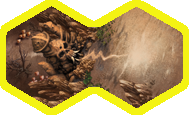
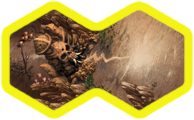
Smoother gate outline

diff --git a/sections/map_elements.tex b/sections/map_elements.tex
@@ -188,7 +188,7 @@ Subterranean Map Tiles have their unique backside and will be place during setup
       \node at (0, 2.2) {\footnotesize{\textbf{\textit{\textcolor{darkcandyapplered}{Stronghold Map Tile}}}}};
       \node at (3.21, -1.11) {\includegraphics[width=0.5\textwidth]{\images/map-tile-sub.png}};
       \node at (3.21, -3.41) {\footnotesize{\textbf{\textit{\textcolor{darkcandyapplered}{Subterranean Map Tile}}}}};
-      \node[rotate=-60] (gate) at (1.6, -0.53) {\includegraphics[width=0.32\textwidth]{\images/subter-gate-outline.png}};
+      \node[rotate=-60] (gate) at (1.6, -0.53) {\includegraphics[width=0.33\textwidth]{\images/subter-gate-outline.png}};
       \node at (3.21, 1.11) {\footnotesize{\textbf{\textit{\textcolor{darkcandyapplered}{Subterranean Gate}}}}};
     \end{tikzpicture}
   \end{scriptsize}
